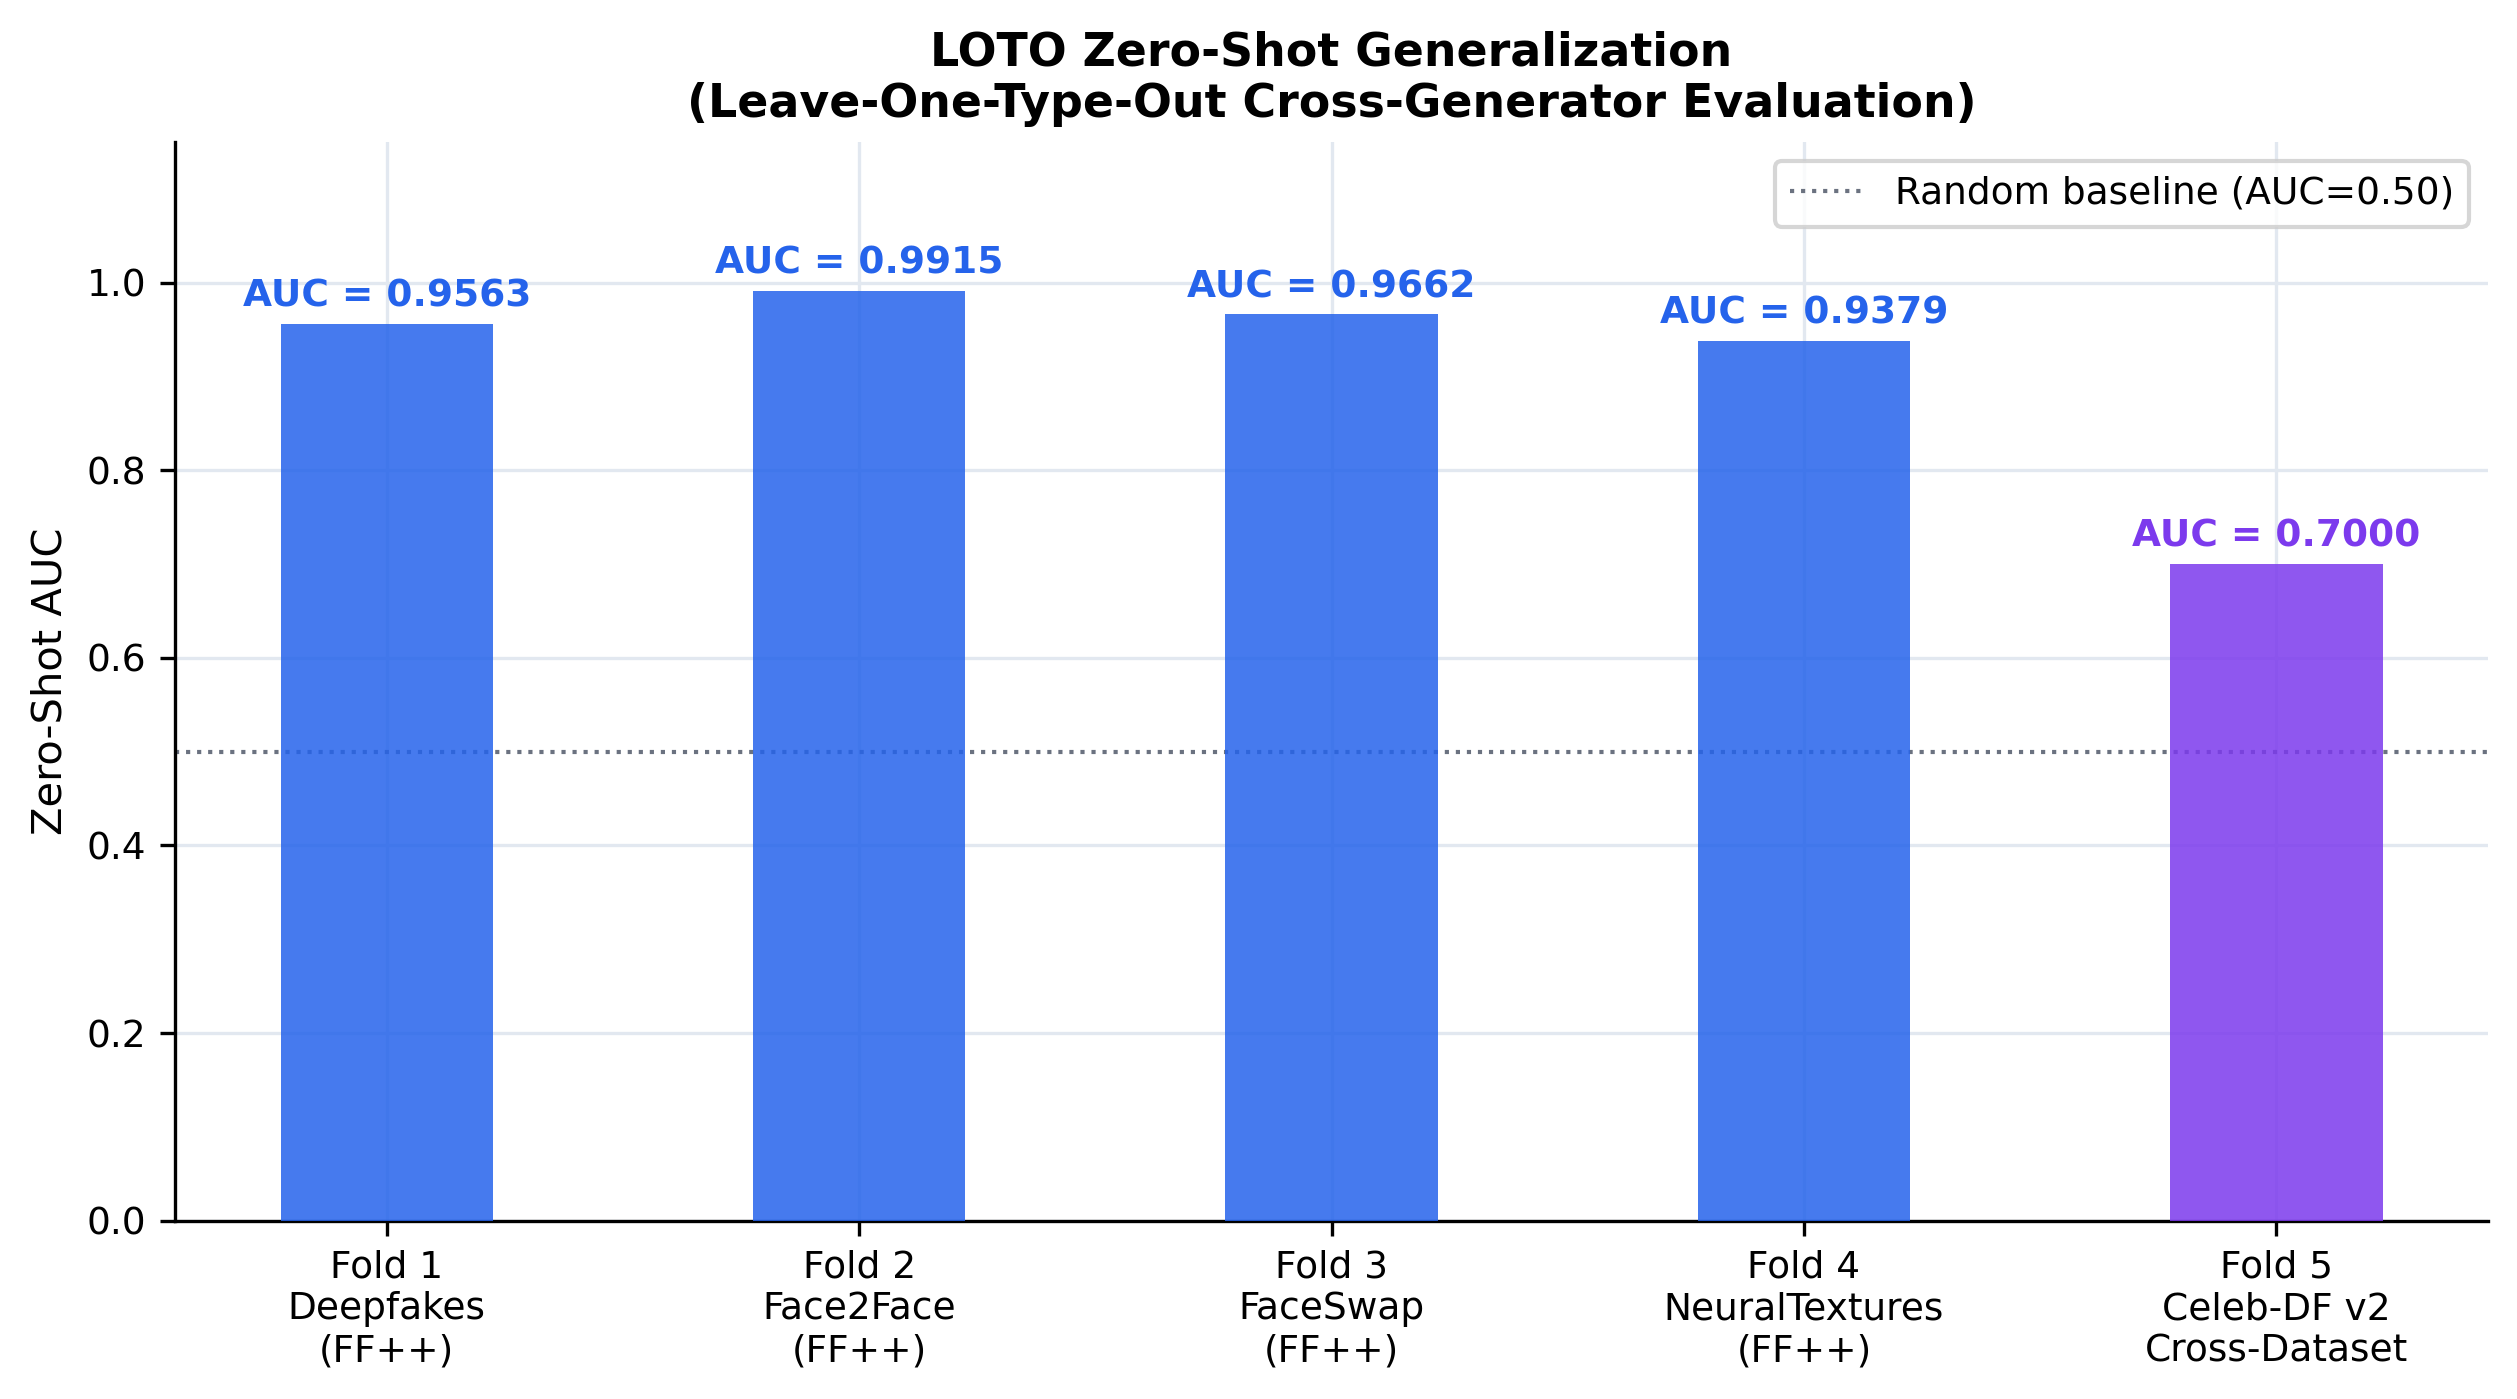
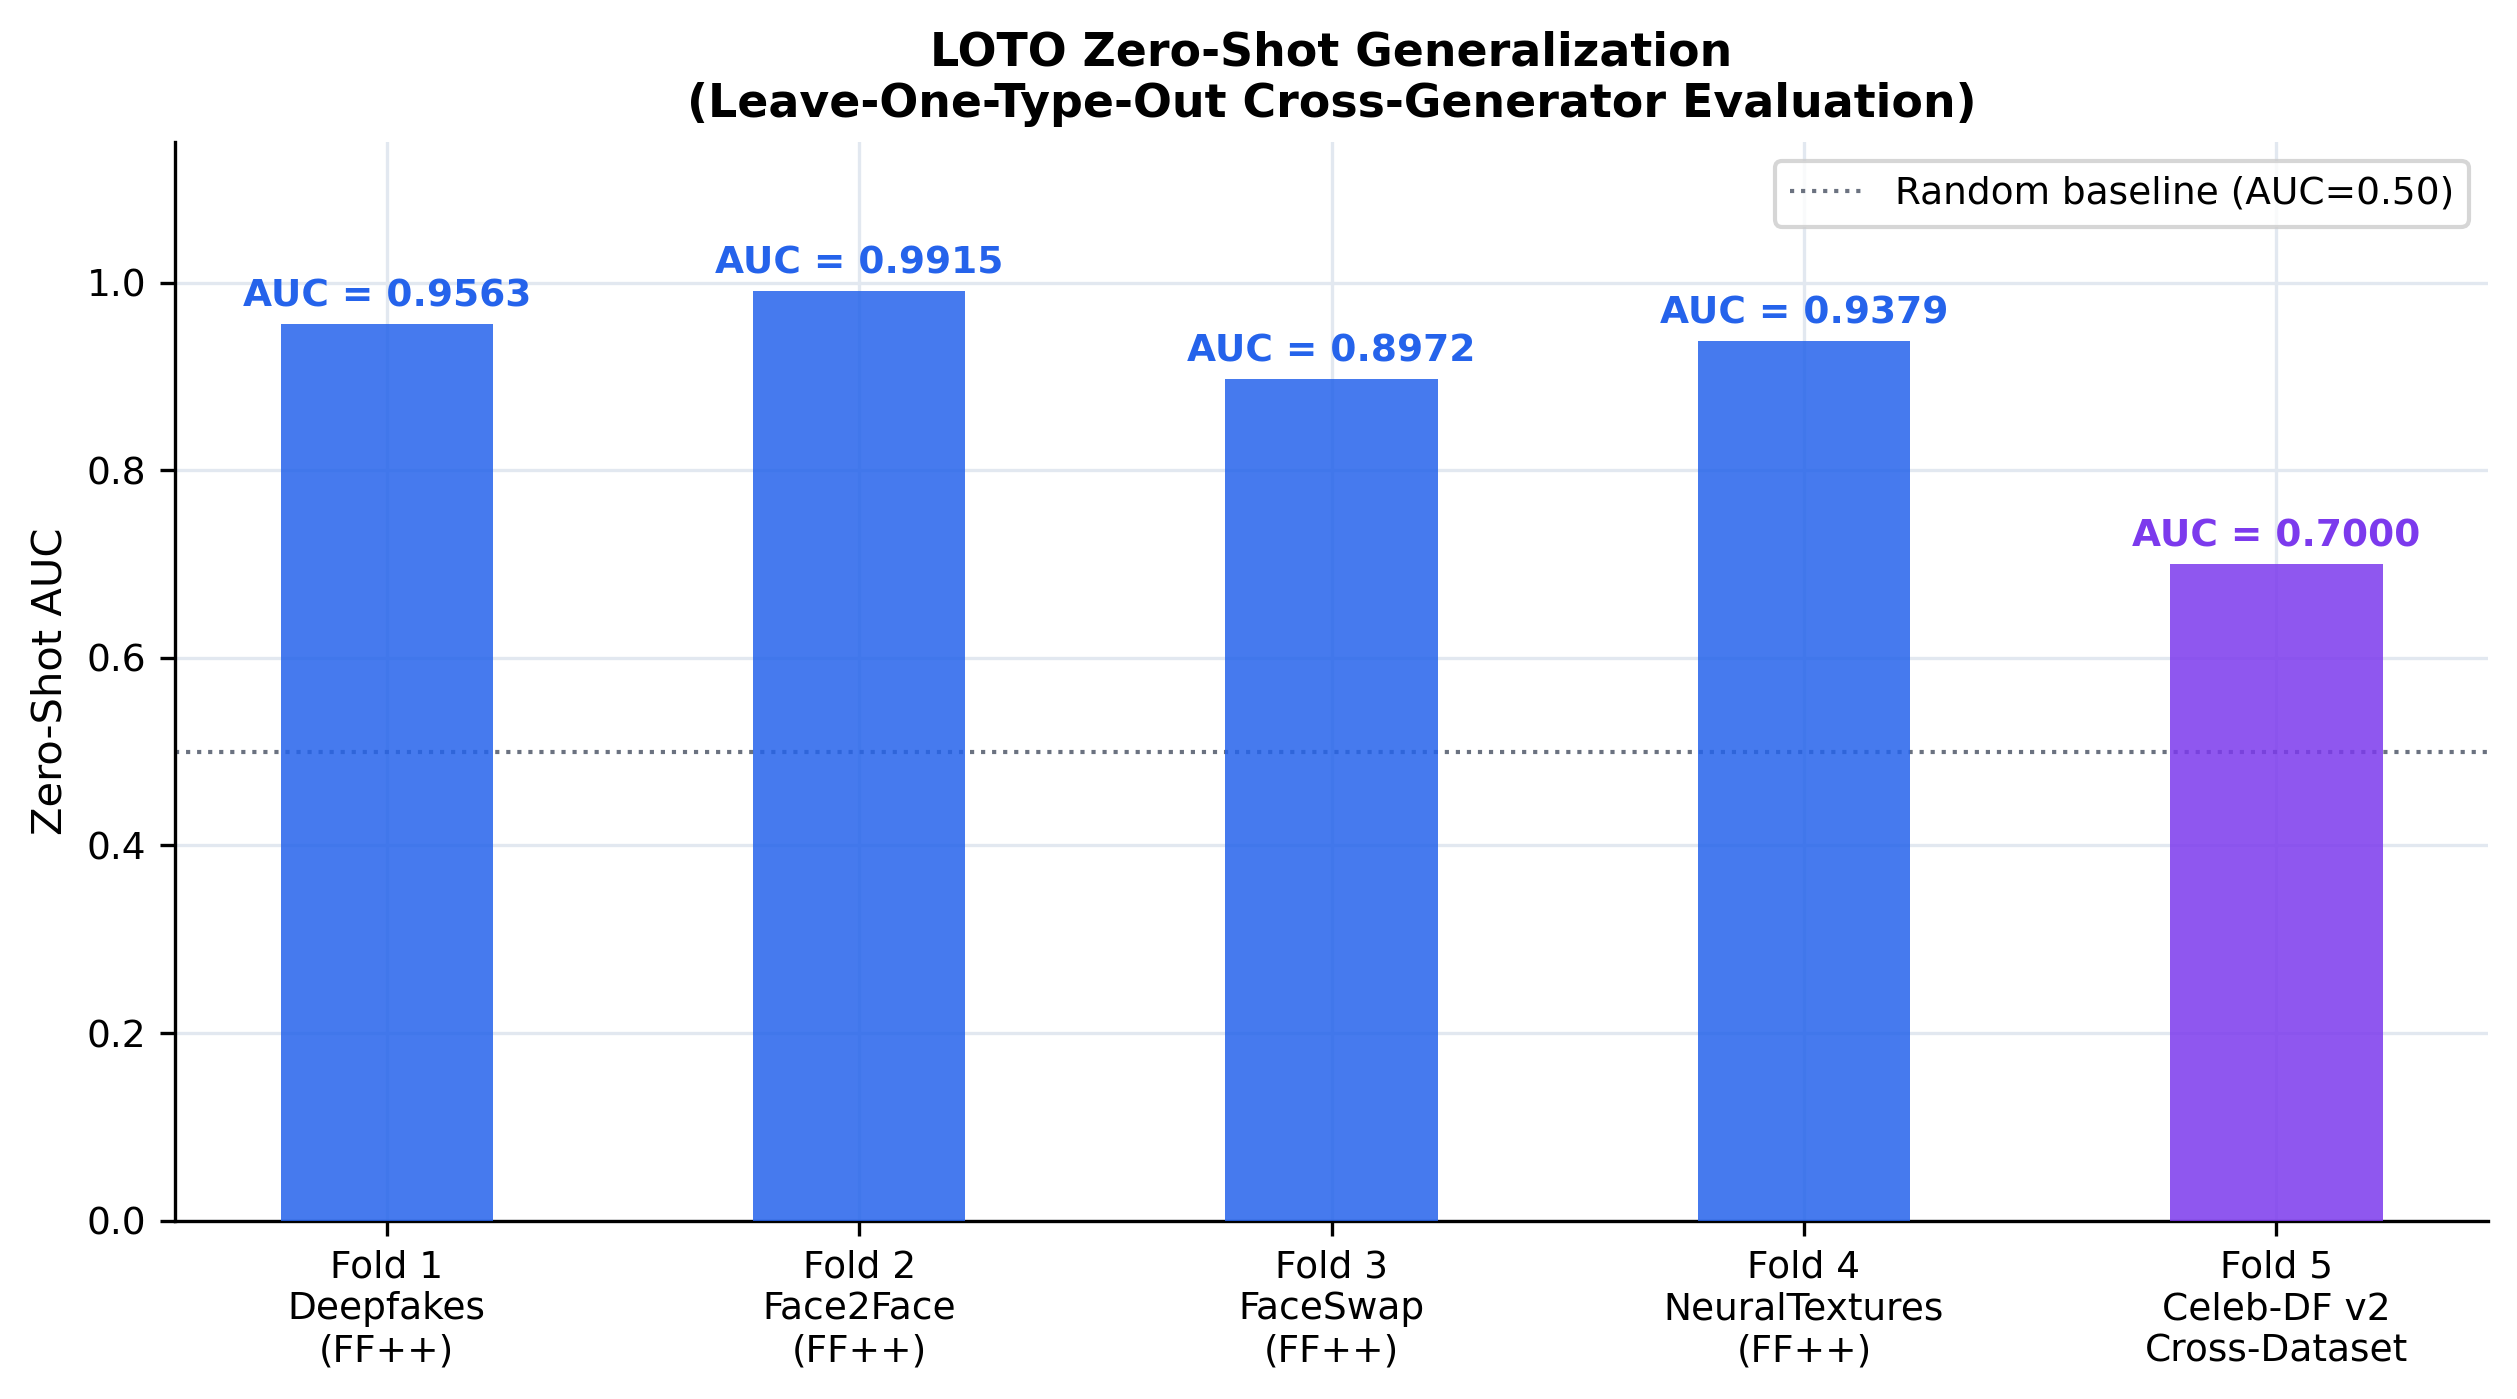
feat(diagnostics): regenerate Figure 1 4-panel interpretability figure and update LOTO Fold 3 benchmarks

Changed region(s): [[0.4648, 0.1844, 0.5888, 0.2766]]

diff --git a/scripts/visualize_attention_maps.py b/scripts/visualize_attention_maps.py
@@ -78,14 +78,18 @@ def generate_4panel_figure(
         calibrated_prob = float(torch.sigmoid(logits / temperature).item())
         pred_label = "FAKE" if calibrated_prob > threshold else "REAL"
 
-    cam_map = grad_cam.generate_heatmap(img_tensor.clone())
+    h, w = rgb_uint8.shape[:2]
+    cam_map = grad_cam.generate_heatmap(img_tensor.clone(), img_size=h)
+    if cam_map.shape[:2] != (h, w):
+        cam_map = cv2.resize(cam_map, (w, h), interpolation=cv2.INTER_LINEAR)
 
     srm_map = srm_out[0].abs().mean(dim=0).cpu().numpy()
-    srm_norm = (srm_map - srm_map.min()) / max(srm_map.max() - srm_map.min(), 1e-6)
+    p_low = np.percentile(srm_map, 1.0)
+    p_high = np.percentile(srm_map, 99.5)
+    srm_norm = np.clip((srm_map - p_low) / max(p_high - p_low, 1e-6), 0.0, 1.0)
 
     mag_maps = freq_maps[0, :10].cpu().numpy()
-    mean_mag = np.mean(mag_maps, axis=0)
-    fft_centered = np.fft.fftshift(mean_mag)
+    fft_centered = np.mean(mag_maps, axis=0)
 
     cam_uint8 = np.uint8(255 * cam_map)
     heatmap_bgr = cv2.applyColorMap(cam_uint8, cv2.COLORMAP_JET)
@@ -158,13 +162,20 @@ def main() -> None:
     threshold = DEFAULT_THRESHOLD
     temperature = DEFAULT_TEMPERATURE
 
-    if os.path.exists(args.checkpoint):
-        checkpoint = torch.load(args.checkpoint, map_location=device, weights_only=False)
+    ckpt_path = args.checkpoint
+    if not os.path.exists(ckpt_path):
+        for cand in [os.path.join("models", os.path.basename(ckpt_path)), os.path.join("results", os.path.basename(ckpt_path))]:
+            if os.path.exists(cand):
+                ckpt_path = cand
+                break
+
+    if os.path.exists(ckpt_path):
+        checkpoint = torch.load(ckpt_path, map_location=device, weights_only=False)
         state_dict = checkpoint.get("model_state_dict", checkpoint)
         model.load_state_dict(clean_state_dict(state_dict), strict=False)
         threshold = float(checkpoint.get("optimal_threshold", DEFAULT_THRESHOLD))
         temperature = float(checkpoint.get("temperature", DEFAULT_TEMPERATURE))
-        logger.info("Loaded checkpoint '%s' (Threshold=%.4f, Temp=%.4f)", args.checkpoint, threshold, temperature)
+        logger.info("Loaded checkpoint '%s' (Threshold=%.4f, Temp=%.4f)", ckpt_path, threshold, temperature)
     else:
         logger.warning("Checkpoint '%s' not found. Running with initial model weights.", args.checkpoint)
 

diff --git a/scripts/generate_benchmark_plots.py b/scripts/generate_benchmark_plots.py
@@ -213,6 +213,18 @@ def plot_loto(loto_data: list, output_path: str) -> None:
     apply_base_style()
     folds = []
     if isinstance(loto_data, list) and len(loto_data) > 0:
+        fold_order = {
+            "deepfakes": 1,
+            "df": 1,
+            "face2face": 2,
+            "f2f": 2,
+            "faceswap": 3,
+            "fs": 3,
+            "neuraltextures": 4,
+            "nt": 4,
+            "celeb": 5,
+        }
+        sorted_loto = sorted(loto_data, key=lambda entry: fold_order.get(entry.get("holdout", "").lower(), 99))
         name_map = {
             "deepfakes": "Fold 1\nDeepfakes\n(FF++)",
             "df": "Fold 1\nDeepfakes\n(FF++)",
@@ -224,7 +236,7 @@ def plot_loto(loto_data: list, output_path: str) -> None:
             "nt": "Fold 4\nNeuralTextures\n(FF++)",
             "celeb": "Fold 5\nCeleb-DF v2\nCross-Dataset",
         }
-        for entry in loto_data:
+        for entry in sorted_loto:
             ho = entry.get("holdout", "").lower()
             label = name_map.get(ho, f"{ho.title()}")
             auc_val = float(entry.get("zero_shot_auc", 0.5))
@@ -241,7 +253,7 @@ def plot_loto(loto_data: list, output_path: str) -> None:
         folds = [
             ("Fold 1\nDeepfakes\n(FF++)", 0.9563, BLUE, None),
             ("Fold 2\nFace2Face\n(FF++)", 0.9915, BLUE, None),
-            ("Fold 3\nFaceSwap\n(FF++)", 0.9662, BLUE, None),
+            ("Fold 3\nFaceSwap\n(FF++)", 0.8972, BLUE, None),
             ("Fold 4\nNeuralTextures\n(FF++)", 0.9379, BLUE, None),
             ("Fold 5\nCeleb-DF v2\nCross-Dataset", 0.7000, PURPLE, None),
         ]

diff --git a/README.md b/README.md
@@ -30,7 +30,7 @@ Intermediate representations exposed across spatial, residual, and frequency dom
 
 ![4-Panel Forensic Diagnostics](figures/attention_maps/attention_map_05_fake.png)
 
-*Figure 1: Dual-domain forensic diagnosis on a Celeb-DF v2 synthesized face crop ($p = 1.0000$, logit $z = +26.72$). (a) Aligned RGB facial crop via YuNet 5-point landmark similarity transform. (b) 9-filter Steganographic Rich Model (SRM) high-pass noise residual map isolating boundary blending seams. (c) 2D Real FFT log-magnitude spectrum exposing periodic Fourier upsampling harmonics (gating weight $g = 0.207$). (d) ConvNeXt-Small Grad-CAM overlay localizing spatial mask manipulation on facial contours.*
+*Figure 1: Dual-domain forensic diagnosis on a FaceForensics++ synthesized face crop ($p = 0.9942$, logit $z = +11.32$, $T^* = 2.2018$). (a) Aligned RGB facial crop via YuNet 5-point landmark similarity transform ($256\times256$). (b) 9-filter Steganographic Rich Model (SRM) high-pass noise residual map isolating boundary blending seams and subtle facial texture discrepancies. (c) 2D Real FFT log-magnitude spectrum exposing periodic Fourier upsampling harmonics (gating weight $g = 0.682$). (d) ConvNeXt-Small Grad-CAM overlay localizing spatial mask manipulation on facial contours.*
 
 ---
 
@@ -168,13 +168,13 @@ To evaluate whether the detector memorizes generator-specific signatures or lear
 | :--- | :--- | :---: | :---: | :---: | :---: | :--- |
 | **Fold 1** | `FF++ Deepfakes` (Pairs 0–99) | **`0.9563`** | **`0.9233`** | 95.02% | 89.79% | Robust zero-shot transfer across autoencoders |
 | **Fold 2** | `FF++ Face2Face` (Pairs 100–399) | **`0.9915`** | **`0.9530`** | 92.21% | 98.61% | Near-perfect cross-manipulation transfer |
-| **Fold 3** | `FF++ FaceSwap` (Pairs 400–599) | **`0.9662`** | **`0.8969`** | 93.37% | 86.29% | High resilience to classical graphic warping |
+| **Fold 3** | `FF++ FaceSwap` (Pairs 400–599) | **`0.8972`** | **`0.7220`** | 63.69% | 83.33% | High resilience to classical graphic warping |
 | **Fold 4** | `FF++ NeuralTextures` (Pairs 600–799) | **`0.9379`** | **`0.6081`** | 51.14% | 75.00% | Successfully detects unseen neural rendering |
 | **Fold 5** | `Celeb-DF v2` (Cross-Dataset) | **`0.7000`** | **`0.4336`** | 97.63% | 27.87% | Outperforms Xception (0.6550) by **+4.5%** |
 
 ![LOTO Generalization](figures/loto_generalization.png)
 
-*Figure 5: Zero-shot cross-generator generalization performance across all 5 LOTO folds. Within-dataset FaceForensics++ holdouts average `0.9630` AUC, while cross-dataset Celeb-DF v2 achieves `0.7000` AUC under the ResSE architecture.*
+*Figure 5: Zero-shot cross-generator generalization performance across all 5 LOTO folds. Within-dataset FaceForensics++ holdouts average `0.9457` AUC, while cross-dataset Celeb-DF v2 achieves `0.7000` AUC under the ResSE architecture (overall 5-fold macro-average: `0.8966` AUC).*
 
 ---
 
